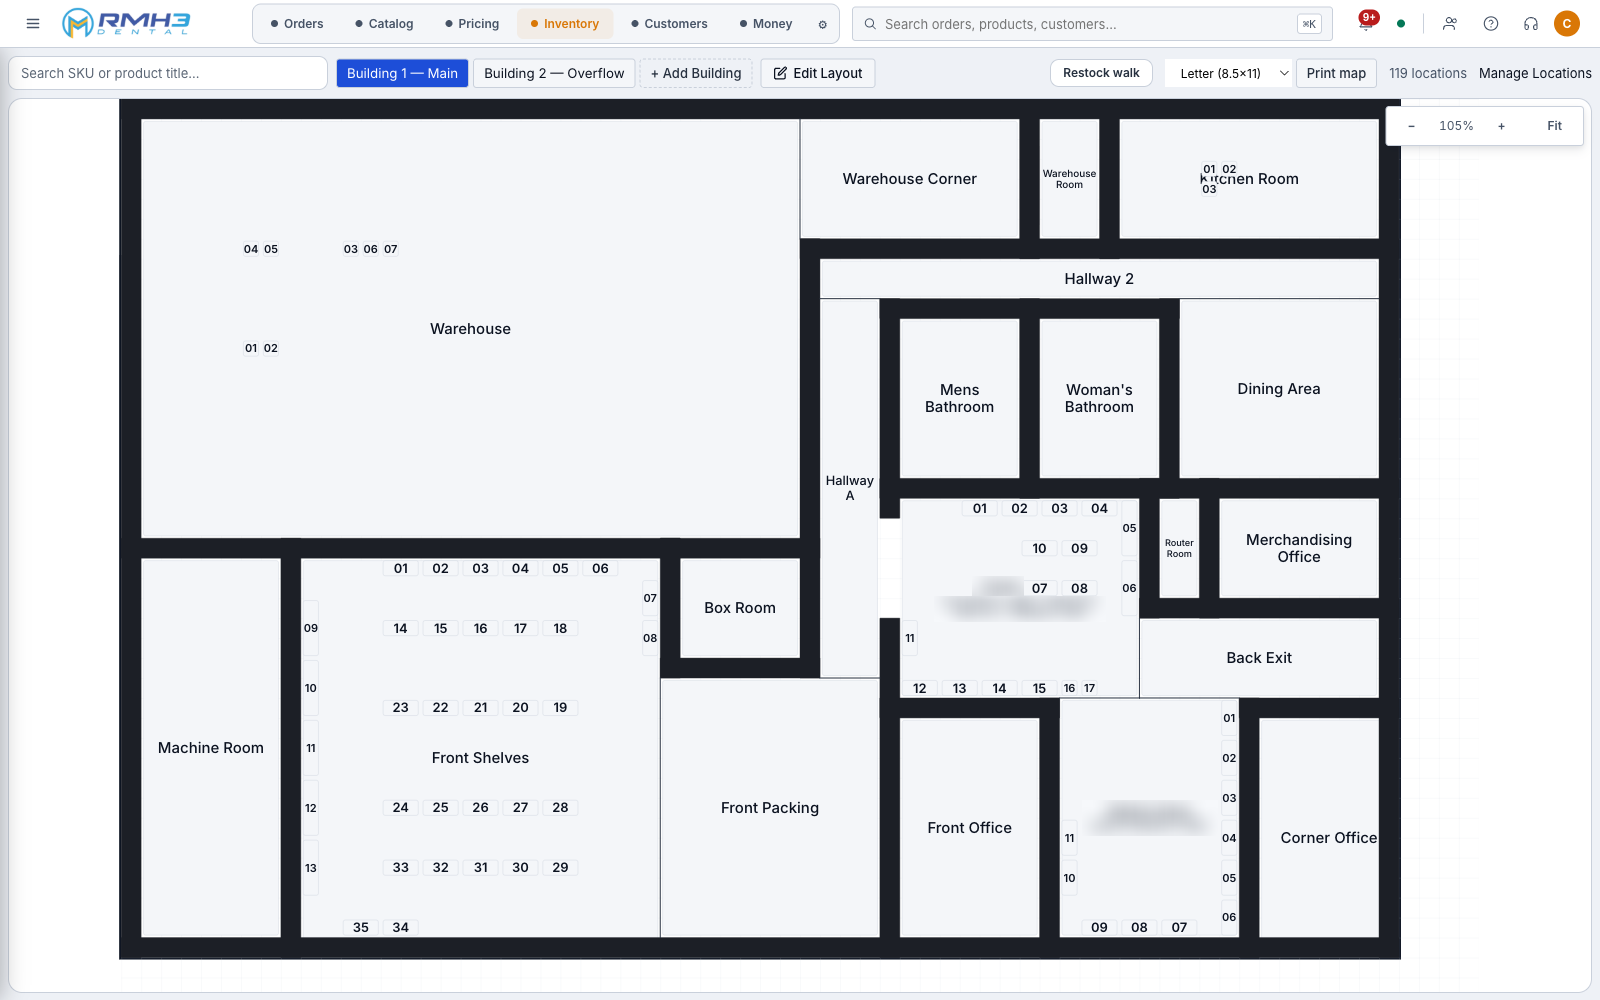
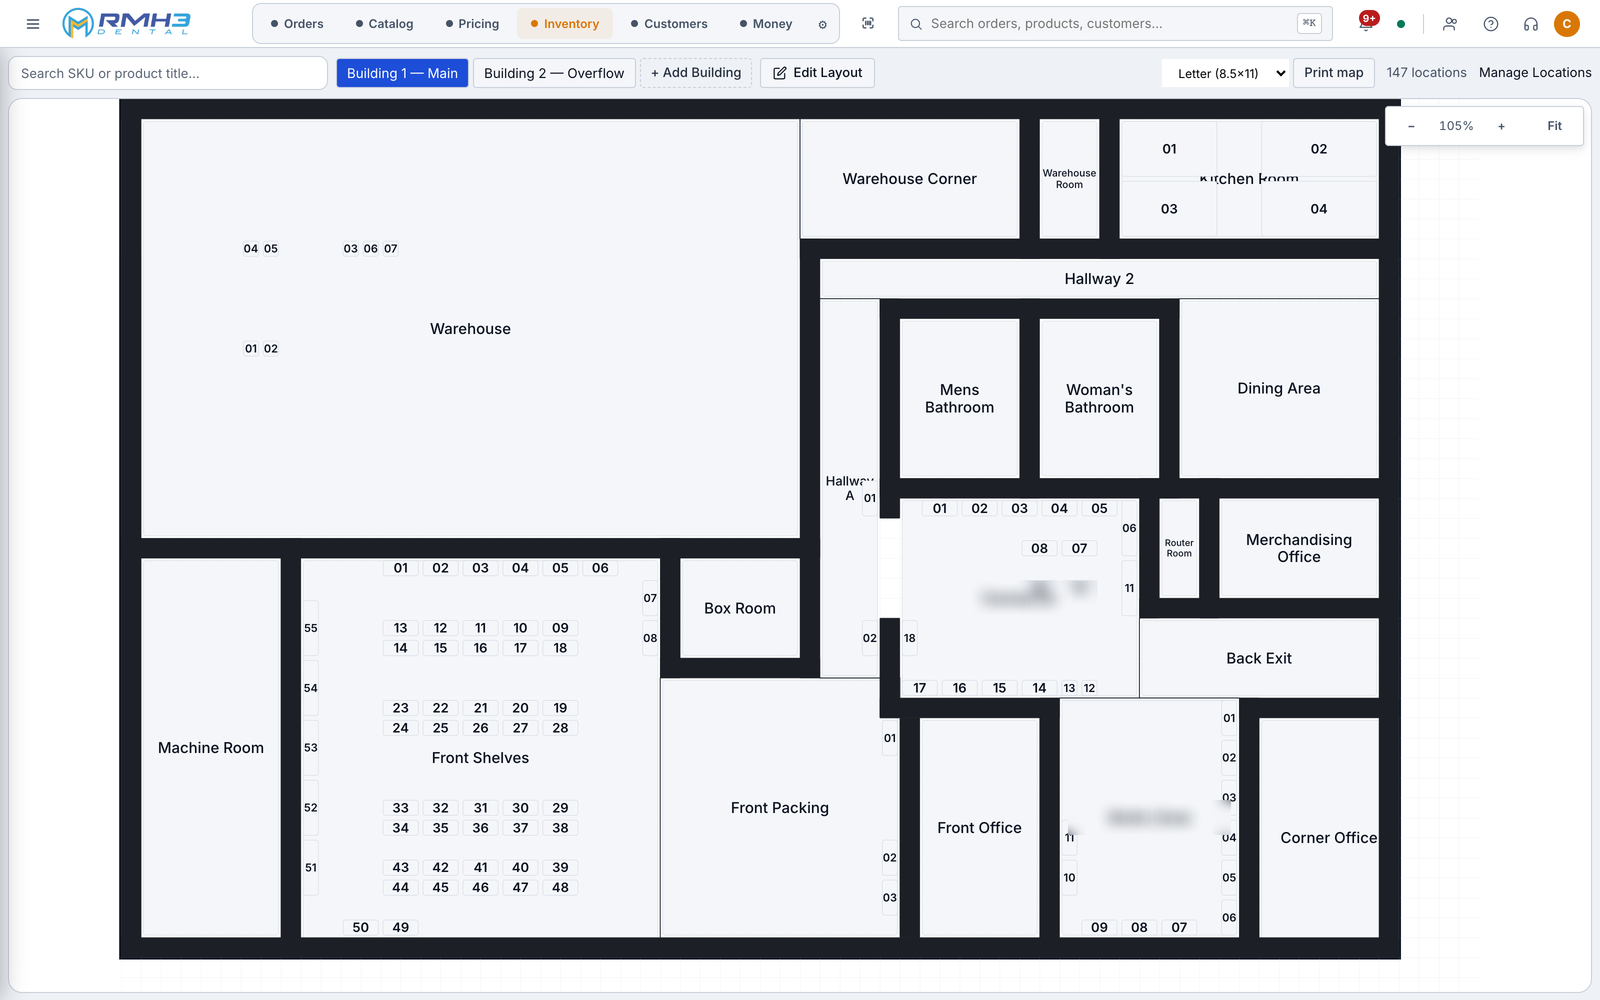
feat(covers): project screenshots follow the site theme
A cover was the one thing on the page that could not flip with the
toggle: the MHLHUB map and the splitter both sat on the dark ground as
white slabs, so the first impression of each product was a lighting
mismatch the product itself does not have — both apps have a real dark
mode.

New optional `coverDark` frontmatter, rendered by one <Cover> component
used by the project hero, the project card and the featured card. Both
files ship and CSS picks one against `[data-theme]`, not
prefers-color-scheme — the theme here is an explicit toggle, so the OS
preference is the wrong question. Astro's <Image> is lazy by default and
a display:none element never enters the viewport, so the hidden twin
costs markup and zero bytes; verified in a browser that exactly one
image is requested per theme.

Assets:
- receipt-splitter/cover-dark.png — composed the same way the light one
  was (four element screenshots off the running demo after "Try an
  example receipt"), on the app's dark background, at the geometry
  measured off the existing cover so the two are pixel-aligned.
- mhlhub/warehouse-map{,-dark}.png — recaptured BOTH from prod today at
  1600x1000, same two zone labels redacted. The old light cover showed
  119 locations against today's 147, and a pair that disagrees on
  content makes the toggle look broken. Alt text updated: the count, and
  the restock-walk button that no longer lives in that toolbar.

Left alone: the repricer subsystem page (its dashboard cover and the
[…]

diff --git a/src/content.config.ts b/src/content.config.ts
@@ -21,6 +21,21 @@ const projectSchema = ({ image }: SchemaContext) =>
     date: z.coerce.date(),
     /** Optional — cards fall back to a deterministic generated cover. */
     cover: image().optional(),
+    /**
+     * The same shot with the product in ITS dark theme.
+     *
+     * A screenshot is the one thing on the page that cannot follow the site's
+     * theme: a light UI capture sits on the dark ground as a white slab, and
+     * the reader's first impression of the product is a lighting mismatch the
+     * product itself does not have. Both files ship and CSS picks one, so the
+     * swap survives the manual toggle (which `prefers-color-scheme` would not).
+     *
+     * Optional and additive: a project with no dark capture — or one whose art
+     * is theme-less, like a game canvas — keeps rendering `cover` in both.
+     * Frame it identically to `cover`; the two are swapped in place, so a
+     * different crop reads as the page jumping when the theme changes.
+     */
+    coverDark: image().optional(),
     coverAlt: z.string().optional(),
     /** Manual ordering on the index; higher sorts first, then by date. */
     featured: z.number().default(0),
